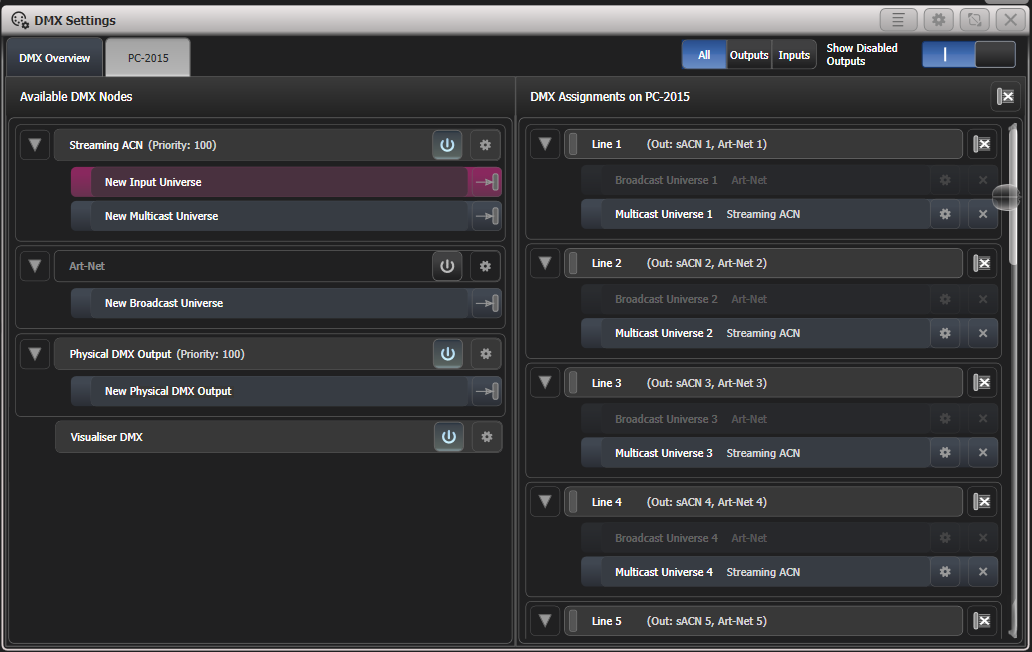
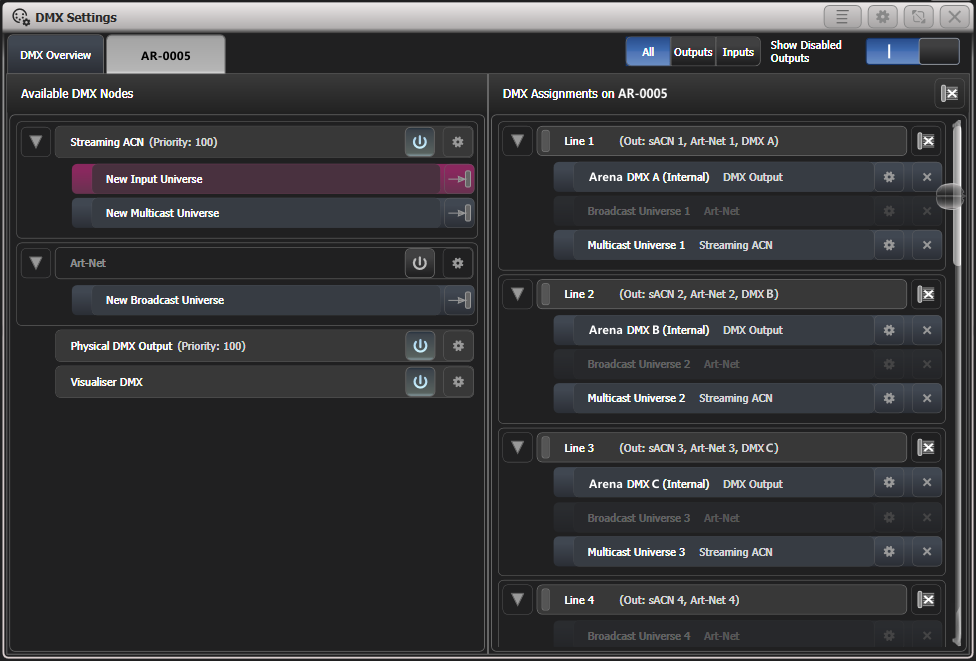
Change section title to "DMX Settings"
Also update DMX settings graphic to show physical DMX outputs

Changed region(s): [[0.0, 0.0, 1.0, 1.0]]

diff --git a/docs/alpha-index.md b/docs/alpha-index.md
@@ -17,7 +17,7 @@ import Video from '@site/src/components/video.tsx';
 [Adjusting masters using the wheels *(in "Playback controls")*](./running-the-show/playback-controls.md#adjusting-masters-using-the-wheels)<br/>
 [Align Fixtures *(in "Changing Fixture Attributes")*](./controlling-fixtures/changing-fixture-attributes.md#align-fixtures)<br/>
 [Animations *(in "Pixel Mapper")*](./effects/pixel-mapper.md#animations)<br/>
-[Art-Net Properties *(in "DMX Output Mapping")*](./system-settings/dmx-output-mapping.md#art-net-properties)<br/>
+[Art-Net Properties *(in "DMX Settings")*](./system-settings/dmx-output-mapping.md#art-net-properties)<br/>
 [Assign Masters *(in "The System Menu")*](./system-settings/the-system-menu.md#assign-masters)<br/>
 [Attribute Editor for Controlling Ai Layers *(in "Operating Synergy")*](./synergy/operating-synergy.md#attribute-editor-for-controlling-ai-layers)<br/>
 [Attribute Editor Window *(in "Changing Fixture Attributes")*](./controlling-fixtures/changing-fixture-attributes.md#attribute-editor-window)<br/>
@@ -77,7 +77,7 @@ import Video from '@site/src/components/video.tsx';
 [Colour Mix: Picker *(in "Changing Fixture Attributes")*](./controlling-fixtures/changing-fixture-attributes.md#colour-mix-picker)<br/>
 [Combining Cues with HTP and LTP *(in "Cue Playback")*](./cues/cue-playback.md#combining-cues-with-htp-and-ltp)<br/>
 [Compatibility Windows for Pearl Expert Shows *(in "Workspace Windows")*](./titan-basics/workspace-windows.md#compatibility-windows-for-pearl-expert-shows)<br/>
-[Configuring DMX Outputs *(in "DMX Output Mapping")*](./system-settings/dmx-output-mapping.md#configuring-dmx-outputs)<br/>
+[Configuring DMX Outputs *(in "DMX Settings")*](./system-settings/dmx-output-mapping.md#configuring-dmx-outputs)<br/>
 [Configuring Tracks *(in "Set List Window")*](./running-the-show/set-list-window.md#configuring-tracks)<br/>
 [Connecting a Monitor *(in "Connecting up and Titan basics")*](./titan-basics.md#connecting-a-monitor)<br/>
 [Connecting a Playback for Control *(in "Chase Playback")*](./chases/chase-playback.md#connecting-a-playback-for-control)<br/>
@@ -151,8 +151,8 @@ import Video from '@site/src/components/video.tsx';
 [Displacement and Layer Properties *(in "Pixel Mapper Examples")*](./effects/pixel-mapper-examples.md#displacement-and-layer-properties)<br/>
 [Display *(in "User Settings")*](./system-settings/user-settings.md#display)<br/>
 [Display Setup *(in "The System Menu")*](./system-settings/the-system-menu.md#display-setup)<br/>
-[DMX Output Properties *(in "DMX Output Mapping")*](./system-settings/dmx-output-mapping.md#dmx-output-properties)<br/>
-[DMX Overview *(in "DMX Output Mapping")*](./system-settings/dmx-output-mapping.md#dmx-overview)<br/>
+[DMX Output Properties *(in "DMX Settings")*](./system-settings/dmx-output-mapping.md#dmx-output-properties)<br/>
+[DMX Overview *(in "DMX Settings")*](./system-settings/dmx-output-mapping.md#dmx-overview)<br/>
 [DMX Settings *(in "The System Menu")*](./system-settings/the-system-menu.md#dmx-settings)<br/>
 [DMX View Window *(in "Changing the Patch")*](./patching/changing-the-patch.md#dmx-view-window)<br/>
 [Downloading fixture personalities from Avolites *(in "Fixture Personalities")*](./fixture-personalities.md#downloading-fixture-personalities-from-avolites)
@@ -317,7 +317,7 @@ import Video from '@site/src/components/video.tsx';
 [Media Viewer *(in "Operating Synergy")*](./synergy/operating-synergy.md#media-viewer)<br/>
 [MIDI Show Control *(in "External triggering")*](./running-the-show/midi-dmx-or-audio-triggering.md#midi-show-control)<br/>
 [Mini Screen (Arena only) *(in "Workspace Windows")*](./titan-basics/workspace-windows.md#mini-screen-arena-only)<br/>
-[Module Properties *(in "DMX Output Mapping")*](./system-settings/dmx-output-mapping.md#module-properties)<br/>
+[Module Properties *(in "DMX Settings")*](./system-settings/dmx-output-mapping.md#module-properties)<br/>
 [Move In Dark (MID) Functions *(in "Cue List Playback")*](./cue-lists/cue-list-playback.md#move-in-dark-mid-functions)<br/>
 [Move In Dark *(in "Cue List Options")*](./cue-lists/cue-list-options.md#move-in-dark)<br/>
 [Moving a Cue *(in "Copying٬ Moving٬ Linking and Deleting a Cue")*](./cues/copying-moving-linking-and-deleting.md#moving-a-cue)<br/>
@@ -327,7 +327,7 @@ import Video from '@site/src/components/video.tsx';
   
 ## N
 [Nested Palettes *(in "Creating Palettes")*](./palettes/creating-palettes.md#nested-palettes)<br/>
-[Network DMX Node Settings *(in "DMX Output Mapping")*](./system-settings/dmx-output-mapping.md#network-dmx-node-settings)<br/>
+[Network DMX Node Settings *(in "DMX Settings")*](./system-settings/dmx-output-mapping.md#network-dmx-node-settings)<br/>
 [Network DMX Node Settings *(in "The System Menu")*](./system-settings/the-system-menu.md#network-dmx-node-settings)<br/>
 [Network Settings *(in "The System Menu")*](./system-settings/the-system-menu.md#network-settings)<br/>
 [Network Settings *(in "TNP Slave Mode")*](./titan-net/tnp-slave-mode.md#network-settings)<br/>
@@ -441,7 +441,7 @@ import Video from '@site/src/components/video.tsx';
 [Running Titan Simulator *(in "Titan Simulator")*](./titan-basics/titan-simulator.md#running-titan-simulator)
   
 ## S
-[sACN Properties *(in "DMX Output Mapping")*](./system-settings/dmx-output-mapping.md#sacn-properties)<br/>
+[sACN Properties *(in "DMX Settings")*](./system-settings/dmx-output-mapping.md#sacn-properties)<br/>
 [Sample Region Overlay *(in "Operating Synergy")*](./synergy/operating-synergy.md#sample-region-overlay)<br/>
 [Saving a Key Frame Shape to a Cue *(in "Key Frame Shapes")*](./effects/key-frame-shapes.md#saving-a-key-frame-shape-to-a-cue)<br/>
 [Saving screen layouts using Workspaces *(in "Useful functions")*](./running-the-show.md#saving-screen-layouts-using-workspaces)<br/>

diff --git a/docs/quick-start/dmx-network-setup.md b/docs/quick-start/dmx-network-setup.md
@@ -9,7 +9,7 @@ import Video from '@site/src/components/video.tsx';
 
 Titan will control up to 64 universes of DMX (depending on licence). You patch fixtures onto
 one of 64 **DMX Lines** which may be routed to the XLR sockets on the console or to Art-Net or sACN universes 
-over Ethernet (see [DMX Output Mapping](../system-settings/dmx-output-mapping.md) for details). The output
+over Ethernet (see [DMX Settings](../system-settings/dmx-output-mapping.md) for details). The output
 universes/lines may have any universe number to match your rig but you can only have 64 universes in total.
 
 Some consoles/devices have limited outputs. All universes are still patchable and programmable but only the lowest numbered will be output. You cannot increase the number of universes by connecting multiple devices (e.g. 2x T1 will still output one universe).
@@ -30,7 +30,7 @@ Settings</Keys.SoftKey>.
 
 Select a Node on the left (where the DMX is going to). On the right, 
 select the DMX line it will be fed by. The small <Keys.ContextKey>Cog</Keys.ContextKey> buttons set 
-properties for Nodes/Lines. See [DMX Output Mapping](../system-settings/dmx-output-mapping.md).
+properties for Nodes/Lines. See [DMX Settings](../system-settings/dmx-output-mapping.md).
 
 To change the IP address of the console, press <Keys.SoftKey>Network Settings</Keys.SoftKey> on
 the **System** menu (see [Network Settings](../networking.md)).

diff --git a/docs/titan-basics.md b/docs/titan-basics.md
@@ -170,7 +170,7 @@ fixtures and dimmers, and can send Art-Net or sACN over Ethernet.
 When you patch a dimmer or fixture you tell Titan which DMX
 line / universe it is on. Each line can be configured to come out of one
 or more of the XLR outputs on the back of the console, and/or to Art-Net or sACN universes
-over Ethernet. Some hardware has limitations on the number of lines you can output - see the [DMX output section](system-settings/dmx-output-mapping.md#configuring-dmx-outputs) for more information.
+over Ethernet. Some hardware has limitations on the number of lines you can output - see the [DMX Settings section](system-settings/dmx-output-mapping.md#configuring-dmx-outputs) for more information.
 
 The D9, D7 and Arena include a built-in [Ethernet switch](networking/connecting-the-arena-to-a-network.md) and have an optical network
 connection.
@@ -239,7 +239,7 @@ Some consoles provide a SMPTE input
 to allow the console to be linked to a
 timecode source. 
 
-- See [External Triggering](../running-the-show.md/midi-dmx-or-audio-triggering) for details of
+- See [External Triggering](/running-the-show.md/midi-dmx-or-audio-triggering) for details of
 how to connect and use external control information.
 
 You can connect the console to a LAN (local area network) using the EtherCON or RJ45

diff --git a/docs/networking/controlling-fixtures-over-a-network.md b/docs/networking/controlling-fixtures-over-a-network.md
@@ -37,7 +37,7 @@ details of how IP addressing works.
 
 ## Setting up DMX outputs
 
-Titan can control 64 DMX universes (see [DMX Output Mapping](../system-settings/dmx-output-mapping.md) for details), except when used with T1 / T2 / T3 hardware when it limited to one, two, and sixteen universes respectively. The Titan Go software (with AvoKey) will output one universe over Art-Net or sACN. The Titan Simulator software (with AvoKey) will output all universes over Art-Net or sACN, but periodically random DMX values will be sent down all DMX outputs as a "spoiler".
+Titan can control 64 DMX universes (see [DMX Settings](../system-settings/dmx-output-mapping.md) for details), except when used with T1 / T2 / T3 hardware when it limited to one, two, and sixteen universes respectively. The Titan Go software (with AvoKey) will output one universe over Art-Net or sACN. The Titan Simulator software (with AvoKey) will output all universes over Art-Net or sACN, but periodically random DMX values will be sent down all DMX outputs as a "spoiler".
 
 Within the console, you patch fixtures to one of 64 output lines. 
 You connect console output lines to network universes using the

diff --git a/docs/system-settings/dmx-output-mapping.md b/docs/system-settings/dmx-output-mapping.md
@@ -1,7 +1,7 @@
 ---
 id: dmx-output-mapping
-title: DMX Output Mapping
-sidebar_label: DMX Output Mapping
+title: DMX Settings
+sidebar_label: DMX Settings
 ---
 
 import Keys from '@site/src/components/key.ts';
